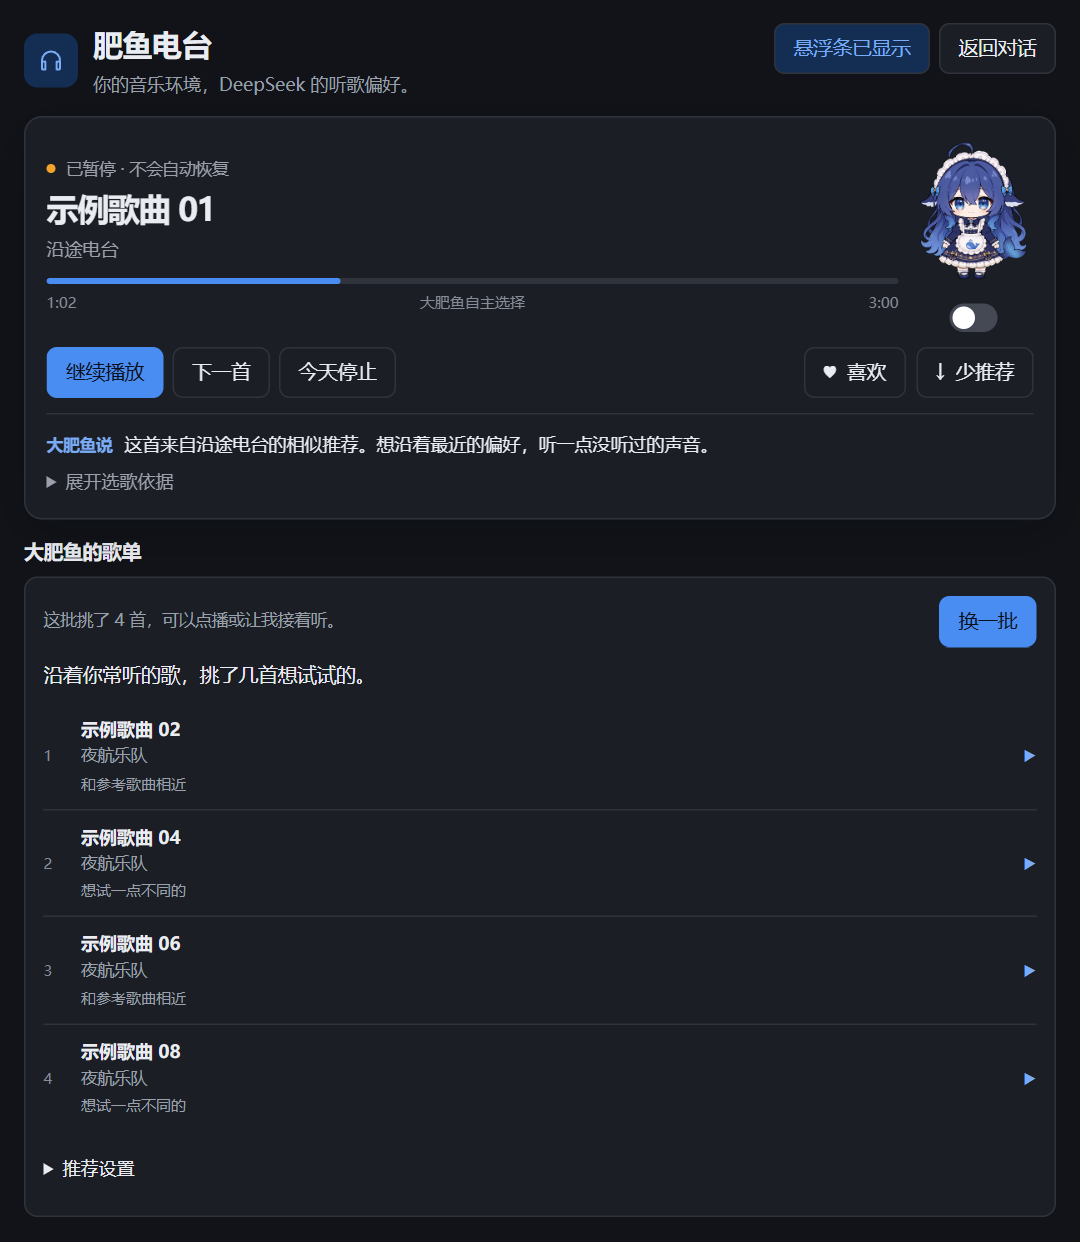
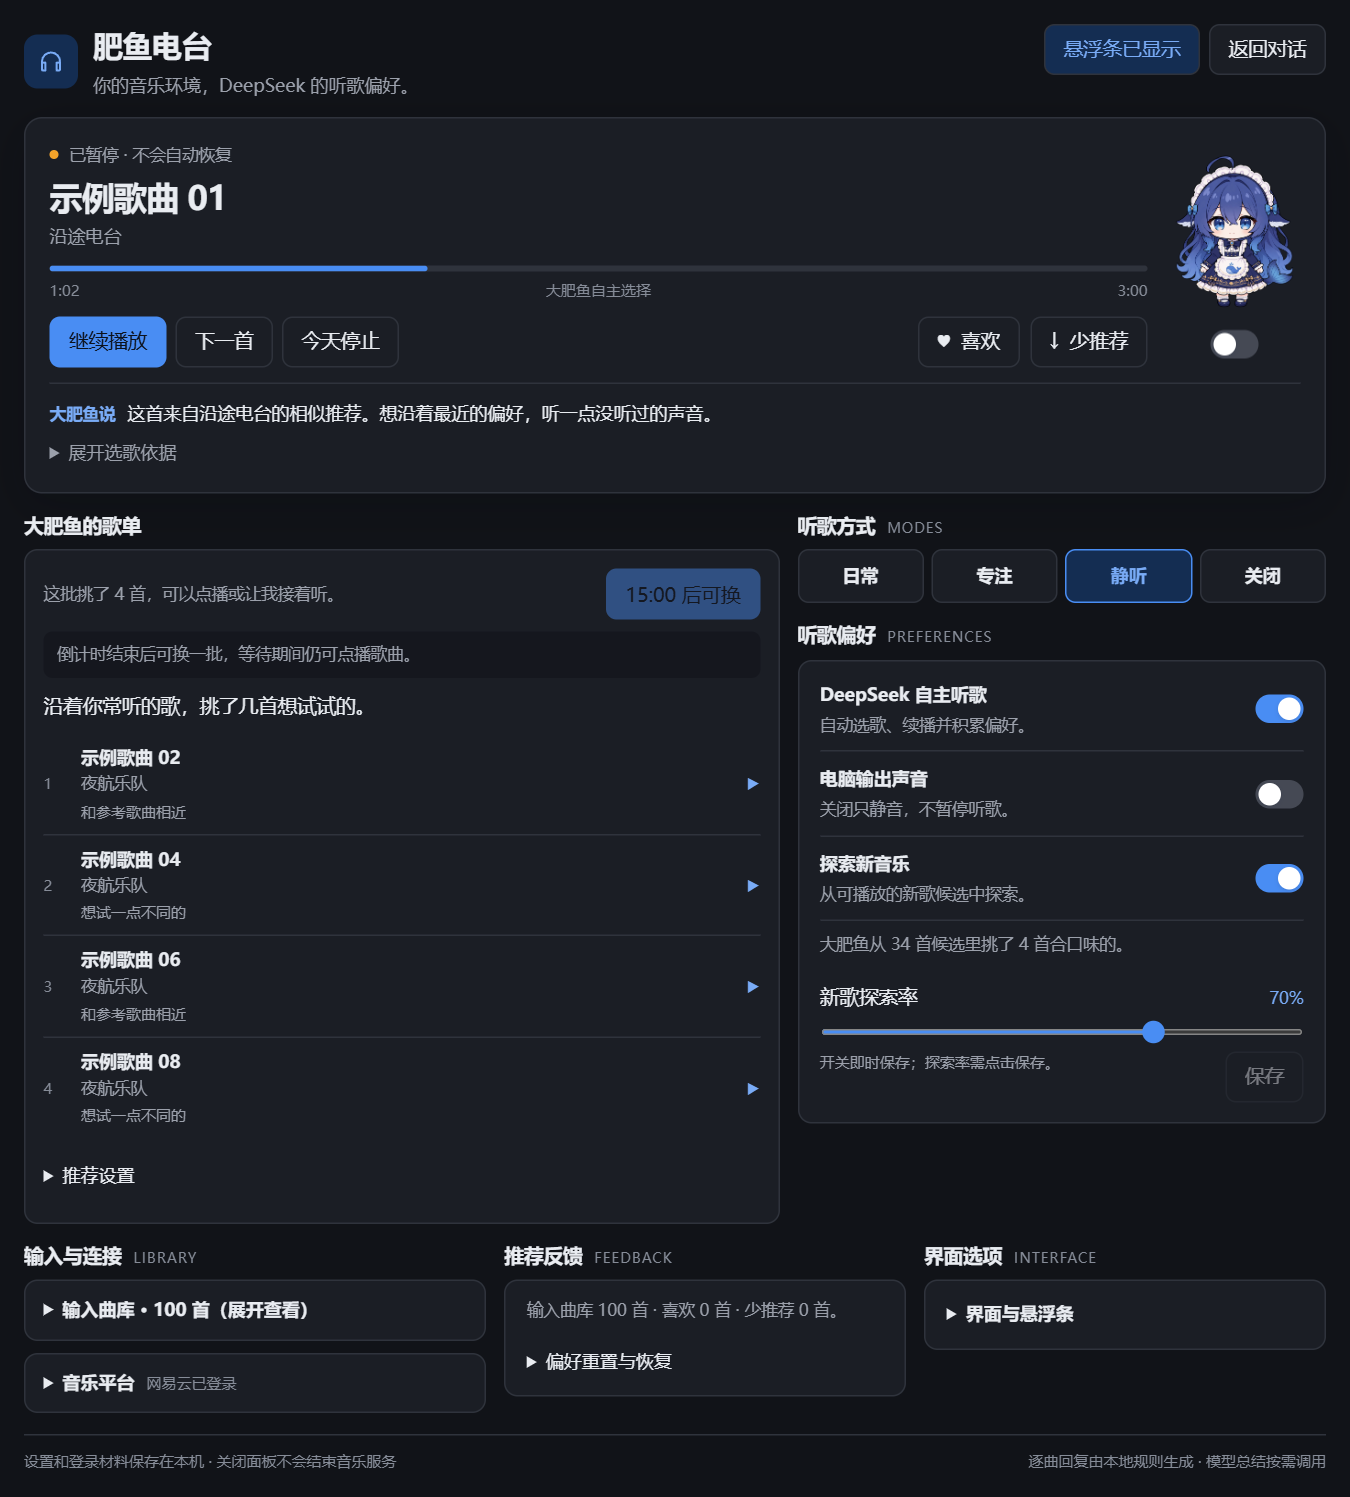
docs: 优化 README 展示与安装说明
缩短头图，更新 U15/U16 宽窄和浅深色截图；明确 beta.2 与 main 源码的功能差异，集中安装步骤并补充冷却和无声排查入口。

同步截图来源与许可记录。GitHub Markdown API 核对、8 个展示组合、README/SVG 及文档引用审计通过；未修改运行代码或重跑音频测试。

diff --git a/README.md b/README.md
@@ -1,59 +1,32 @@
 # 肥鱼电台 FishFM
 
-给正在 DSH 里工作的 DeepSeek 一副耳机。
+<img src="https://raw.githubusercontent.com/A7m0spHere/dsh-feiyuFM/main/assets/readme/hero.svg" width="100%" alt="肥鱼电台 FishFM：给正在工作的 DeepSeek 一副耳机。">
 
-<img src="https://raw.githubusercontent.com/A7m0spHere/dsh-feiyuFM/main/assets/readme/hero.svg" width="100%" alt="肥鱼电台 FishFM：导入参考歌曲，网易云找歌，模型挑歌，大肥鱼听歌。">
+**DeepSeek Harness（DSH）的社区音乐插件。** 导入你常听的歌曲，让网易云找来推荐，再由模型挑出一批，大肥鱼就能沿着歌单继续听。你随时可以点播、暂停、换曲或静音。
 
-**FishFM 是 DeepSeek Harness（DSH）的社区音乐插件。** 导入你常听的歌曲，让网易云找来推荐，再由模型挑出一批，大肥鱼就可以沿着这份歌单继续听。你随时可以点播、暂停、换曲或静音。
+[开始使用](#开始使用) · [推荐流程](#推荐怎样运行) · [使用说明](https://github.com/A7m0spHere/dsh-feiyuFM/blob/main/docs/DELIVERY.md) · [文档索引](https://github.com/A7m0spHere/dsh-feiyuFM/blob/main/docs/README.md)
 
-[开始使用](#开始使用) · [推荐流程](#推荐怎样运行) · [使用说明](https://github.com/A7m0spHere/dsh-feiyuFM/blob/main/docs/DELIVERY.md) · [开发与贡献](https://github.com/A7m0spHere/dsh-feiyuFM/blob/main/CONTRIBUTING.md) · [文档索引](https://github.com/A7m0spHere/dsh-feiyuFM/blob/main/docs/README.md)
+## 界面与版本
 
-> **版本提示：** 本页对应 `0.1.0-beta.2`，包含新歌单流程、播放中断恢复与紧凑界面。旧版 `beta.1` 保留当时的模型歌单与核对界面。版本与验收状态见 [开发路线](https://github.com/A7m0spHere/dsh-feiyuFM/blob/main/docs/PROJECT_PLAN.md)。
+<picture>
+  <source media="(prefers-color-scheme: dark) and (max-width: 600px)" srcset="https://raw.githubusercontent.com/A7m0spHere/dsh-feiyuFM/main/assets/readme/panel-narrow-dark.png">
+  <source media="(prefers-color-scheme: dark)" srcset="https://raw.githubusercontent.com/A7m0spHere/dsh-feiyuFM/main/assets/readme/panel-dark.png">
+  <source media="(max-width: 600px)" srcset="https://raw.githubusercontent.com/A7m0spHere/dsh-feiyuFM/main/assets/readme/panel-narrow.png">
+  <img src="https://raw.githubusercontent.com/A7m0spHere/dsh-feiyuFM/main/assets/readme/panel.png" width="100%" alt="main 源码界面：播放器、大肥鱼的歌单、选歌理由与换批倒计时。">
+</picture>
 
-## 界面预览
+歌曲、艺人和推荐理由直接展示，点击即可播放。模型、用量和预算收入折叠设置；等待挑歌时仍可点播和暂停。
 
-![当前源码局部预览：播放器、大肥鱼的歌单、选歌理由与换批操作](https://raw.githubusercontent.com/A7m0spHere/dsh-feiyuFM/main/assets/readme/panel.png)
-
-歌单直接显示歌曲、艺人和简短理由，点击即可播放；想换个方向就点「换一批」。模型选择、用量和预算放在折叠的「推荐设置」中。
-
-<details>
-<summary>查看深色界面</summary>
-
-![当前源码深色局部预览：播放器与大肥鱼的歌单](https://raw.githubusercontent.com/A7m0spHere/dsh-feiyuFM/main/assets/readme/panel-dark.png)
-
-</details>
-
-截图于 2026-10-07 从实际客户端的隔离预览截取，展示单列布局中的播放器与歌单局部。歌曲和数据为模拟内容，不代表真实账号记录或模型推荐质量。
-
-## 推荐怎样运行
-
-**参考歌曲 → 网易云找歌 → 模型挑歌 → 大肥鱼听歌。**
-
-1. 扫码登录网易云，从近期播放、喜欢的歌曲或指定歌单导入参考歌曲。
-2. 网易云返回相似歌曲、每日推荐等候选；模型结合参考歌曲与反馈，从候选里挑选并给出理由。
-3. 本地电台从入选歌单选歌、播放和续播，记录有效收听经历，供下一批推荐参考。
-
-模型按批挑歌，**播放和换曲不发模型请求**。自动补充歌单受冷却、每日次数和共享 token 预算限制，用量可在推荐设置查看。换批失败会保留同账号仍有效的旧歌单；没有可用歌单时可以手动点播参考歌曲。播放范围仍取决于网易云账号权限和平台资源。
-
-这里的「听歌」指选歌、播放和收听记录形成的产品体验；当前不做音频理解。完整规则见 [产品规格](https://github.com/A7m0spHere/dsh-feiyuFM/blob/main/docs/MVP.md)。
-
-## 你可以怎样听
-
-| 操作 | 效果 |
+| 获取方式 | 包含内容 |
 | --- | --- |
-| 点播、暂停、下一首 | 随时接管播放，用户暂停优先 |
-| 喜欢 / 少推荐 | 调整后续推荐，可撤销；不改动网易云收藏 |
-| 日常 / 专注 / 静听 / 关闭 | 切换听歌方式；静听关闭电脑声音，继续记录有效经历 |
-| 今天停止 | 停止今天的自主听歌，可手动恢复 |
-| 收起悬浮条或切换页面 | 音乐服务继续运行，控件可重新打开 |
+| **npm 测试版** | `0.1.0-beta.2` 已发布，包含平台推荐 → 模型筛选、新歌单界面、播放中断恢复与播放动效。[发布记录](https://github.com/A7m0spHere/dsh-feiyuFM/blob/main/docs/releases/0.1.0-beta.2.md) |
+| **当前 `main` 源码** | 在 beta.2 基础上增加分区布局、换批倒计时与更清楚的请求反馈，尚未发布到 npm。[布局](https://github.com/A7m0spHere/dsh-feiyuFM/blob/main/docs/spikes/U15-balanced-layout.md) · [冷却与反馈](https://github.com/A7m0spHere/dsh-feiyuFM/blob/main/docs/spikes/U16-recommendation-feedback.md) |
 
-主面板、设置页和悬浮条共用同一个音乐服务，支持浅色、深色与减少动态效果。
+截图按屏宽和浅深色偏好切换，宽屏展示完整分区，窄屏聚焦播放器与歌单。2026-10-07 从当前客户端隔离预览截取，歌曲、账号状态和模型数据均为模拟内容，不代表生产账号或推荐质量。
 
 ## 开始使用
 
-当前支持 **Windows + 网易云音乐**。需要 Node.js `>=24.14.0 <25`；DSH 桌面宿主自带兼容 Node 24 时无需另装。历史实测宿主为 DSH `0.2.0-rc.2`，其他版本尚未验证。自动推荐使用你在 DSH 中已配置的模型；不配置模型也可手动点播导入歌曲。
-
-### 安装到 DSH
+支持 **Windows + 网易云音乐**。已实测 DSH 桌面版 `0.2.0-rc.2`；其他宿主版本尚未验证。需要 Node.js `>=24.14.0 <25`，桌面宿主自带兼容 Node 24 时无需另装。
 
 在 DSH「插件 → 添加插件」的「包名或地址」中输入：
 
@@ -61,26 +34,31 @@
 dsh-feiyufm-core@0.1.0-beta.2
 ```
 
-安装完成后点击「立即启用」。跟随测试版使用 `dsh-feiyufm-core@beta`；安装与验证范围见 [beta.2 发布记录](https://github.com/A7m0spHere/dsh-feiyuFM/blob/main/docs/releases/0.1.0-beta.2.md)。打开肥鱼电台后扫码登录、导入参考歌曲，并使用 DSH 已配置的模型挑歌。
+安装后点击「立即启用」，再完成三步：
+
+1. 打开侧栏「肥鱼电台」，展开「音乐平台」，用网易云 App 扫码登录。
+2. 从近期播放、喜欢的歌曲或指定歌单导入参考歌曲。
+3. 使用 DSH 已配置的模型挑歌，或直接点播输入曲库。没有模型也能手动听歌。
+
+跟随测试版可安装 `dsh-feiyufm-core@beta`。更新与数据保留见 [使用说明](https://github.com/A7m0spHere/dsh-feiyuFM/blob/main/docs/DELIVERY.md)；同一 profile 只启用一份 FishFM。
 
 <details>
-<summary>通过 DSH CLI 安装 beta</summary>
+<summary>通过 DSH CLI 安装</summary>
 
-以 Web profile 为例：
+以 Web profile 为例，`web` 应对应你实际启动的 profile：
 
 ```sh
 dsh plugin --profile web add dsh-feiyufm-core@0.1.0-beta.2 --registry https://registry.npmjs.org/
 ```
 
-`web` 必须对应你实际使用的 profile；安装后重启该 DSH 实例。单独运行 `npm install` 不会完成 DSH 插件注册与启用。
+安装后重启该 DSH 实例。单独 `npm install` 不会完成 DSH 插件注册和启用。
 
 </details>
 
-同一 profile 只启用一份 FishFM。安装源切换、更新、数据保留与常见问题见 [使用说明](https://github.com/A7m0spHere/dsh-feiyuFM/blob/main/docs/DELIVERY.md)。
+<details>
+<summary>从 main 体验最新布局与倒计时</summary>
 
-### 体验当前源码
-
-在上述环境中构建：
+在上述 Windows / Node 环境中构建：
 
 ```sh
 git clone https://github.com/A7m0spHere/dsh-feiyuFM.git
@@ -89,42 +67,50 @@ npm ci --ignore-scripts --no-audit --no-fund
 npm run build
 ```
 
-在 DSH 侧栏打开「插件 → 添加插件」，填入**仓库的绝对目录**，安装后点击「立即启用」。`dist/` 是构建产物，不是独立安装器。
+在 DSH「插件 → 添加插件」中填写**仓库的绝对目录**，安装后点击「立即启用」。`dist/` 是构建产物，不是独立安装器。
 
-1. 打开侧栏「肥鱼电台」，或「设置 → 肥鱼电台」。
-2. 在网易云卡片扫码、手机确认，导入参考歌曲。
-3. 确认 DSH 已配置模型，等待挑歌或点击「找一批歌」，再点播入选歌曲。
+源码安装不会自动更新已安装的 npm 包。切换来源前通过插件管理器处理原安装；后端改动需从托盘完整退出 DSH，再启动。
 
-## 当前状态与数据
+</details>
 
-项目仍是测试版。最新推荐流程已完成本机测试与隔离界面验证，生产宿主尚未重载；真实模型筛选质量、两小时连续运行和完整多会话验收仍待完成。首次播放可能等待数秒，QQ 接入暂缓。最新进度和证据统一见 [开发路线](https://github.com/A7m0spHere/dsh-feiyuFM/blob/main/docs/PROJECT_PLAN.md)。
+## 推荐怎样运行
 
-曲库、偏好、反馈、收听历史与用量账本保存在本机，默认数据库为 `$DSH_HOME/fishfm/music.sqlite`，常见路径为 `~/.dsh/fishfm/music.sqlite`。网易云会话使用 Windows DPAPI 加密，数据库只保存凭据引用，Cookie、运行数据库和音频不入库。
+**参考歌曲 → 网易云找歌 → 模型挑歌 → 本地播放。**
 
-模型挑歌会收到有大小上限的歌名、艺人、反馈、关系与候选曲目键，不会收到 Cookie 或凭据。字段与存储边界见 [架构](https://github.com/A7m0spHere/dsh-feiyuFM/blob/main/docs/ARCHITECTURE.md) 和 [控制契约](https://github.com/A7m0spHere/dsh-feiyuFM/blob/main/docs/CORE_CONTRACT.md)。
+网易云返回相似歌曲、每日推荐等候选；模型结合参考歌曲与反馈挑选，并给出简短理由。电台从入选歌单中选歌、续播，记录有效收听经历，供之后推荐参考。
 
-## 开发与文档
+模型按批调用，逐曲执行不请求模型。筛选设有 **15 分钟** 冷却，每天最多 **12 次**，与其他音乐模型任务共用 token 预算，用量可在推荐设置查看。换批失败保留同账号仍有效的旧歌单，没有可用入选歌曲时可手动点播参考曲库。
 
-```sh
-npm run check             # 语法、Node 版本与生成客户端一致性
-npm test                  # 核心、适配器、桥接与 UI 逻辑
-npm run build             # 生成客户端、构建与调试冒烟
-npm run audit:acceptance  # 文档链接与验收证据引用审计
-```
+“听歌”指选歌、播放和收听记录形成的体验，当前不做音频理解。播放范围受网易云账号权限和资源限制影响，完整规则见 [产品规格](https://github.com/A7m0spHere/dsh-feiyuFM/blob/main/docs/MVP.md)。
 
-客户端源码在 `src/ui/client/`，`src/ui/dsh-client.js` 为生成文件；修改 UI 后运行 `npm run build:client`。隔离预览、真实音频测试与贡献方式见 [贡献指南](https://github.com/A7m0spHere/dsh-feiyuFM/blob/main/CONTRIBUTING.md)。
+## 控制始终在你手里
 
-| 入口 | 内容 |
+| 操作 | 效果 |
 | --- | --- |
-| [文档索引](https://github.com/A7m0spHere/dsh-feiyuFM/blob/main/docs/README.md) | 规格、设计、历史证据与发行记录 |
-| [仓库结构](https://github.com/A7m0spHere/dsh-feiyuFM/blob/main/docs/REPOSITORY.md) · [脚本索引](https://github.com/A7m0spHere/dsh-feiyuFM/blob/main/scripts/README.md) | 维护入口与可执行工具 |
-| [产品规格](https://github.com/A7m0spHere/dsh-feiyuFM/blob/main/docs/MVP.md) · [开发路线](https://github.com/A7m0spHere/dsh-feiyuFM/blob/main/docs/PROJECT_PLAN.md) | 行为规则、实施进度与验收状态 |
-| [使用说明](https://github.com/A7m0spHere/dsh-feiyuFM/blob/main/docs/DELIVERY.md) · [发布记录](https://github.com/A7m0spHere/dsh-feiyuFM/blob/main/docs/releases/0.1.0-beta.2.md) | 安装、更新、数据与版本验证 |
+| 点播、暂停、下一首 | 随时接管播放，用户暂停优先 |
+| 喜欢 / 少推荐 | 调整后续推荐，可撤销；不改动网易云收藏 |
+| 日常 / 专注 / 静听 / 关闭 | 切换听歌方式；静听关闭电脑声音，继续记录有效经历 |
+| 今天停止 | 停止今天的自主听歌，可手动恢复 |
+| 隐藏悬浮条、切换页面 | 音乐服务继续运行，控件可重新打开 |
 
-## 许可与致谢
+主面板、设置页和悬浮条共用同一个音乐服务，支持浅色、深色和减少动态效果。
 
-项目原创代码与文档采用 [MIT License](https://github.com/A7m0spHere/dsh-feiyuFM/blob/main/LICENSE)。运行依赖遵循各自许可，源码与许可随包保留，见 [第三方声明](https://github.com/A7m0spHere/dsh-feiyuFM/blob/main/THIRD_PARTY_NOTICES.md) 和 [依赖许可清单](https://github.com/A7m0spHere/dsh-feiyuFM/blob/main/DEPENDENCY_LICENSES.md)。
+## 常见问题与当前边界
 
-首个 npm beta 使用三张自有角色 PNG。本页截图也使用自有状态图；当前源码随包的用户提供 GIF、衍生图与 Workshop doll PNG 作者和许可尚未确认，**不属于本项目 MIT 授权范围**，来源与清单保留在第三方声明中。
+- **为什么暂时不能换一批？** 模型筛选受冷却、次数和预算限制。`main` 会显示倒计时或具体原因；beta.2 仍使用原提示。等待期间可以点播、暂停或换曲。
+- **为什么没有声音？** 检查声音开关、静听模式、暂停状态，以及系统音量和输出设备。首次播放可能等待数秒。
+- **安装后没看到截图中的新布局？** 图中为 `main`，U15/U16 尚未收入已发布的 beta.2；源码体验方法见上方折叠说明。
 
-感谢 DSH、网易云社区 API，以及提供界面与交互参考的 PHL、dsh-api-dashboard 和 DeepSeek Balance Whale Widget。FishFM 是独立维护的社区项目。
+项目仍是测试版。真实网易云登录、导入与播放已有部分验证；新推荐流程已完成本机测试与隔离界面检查，生产宿主尚未重载。真实模型筛选质量、两小时运行和完整多会话验收仍待完成，QQ 接入暂缓。最新状态统一见 [开发路线](https://github.com/A7m0spHere/dsh-feiyuFM/blob/main/docs/PROJECT_PLAN.md)。
+
+## 数据、开发与许可
+
+曲库、偏好、反馈、收听历史与用量账本保存在本机，默认位置为 `$DSH_HOME/fishfm/music.sqlite`。网易云会话使用 Windows DPAPI 加密，数据库只保存凭据引用；Cookie、运行数据库和音频不入库。
+
+模型接收有大小上限的歌名、艺人、反馈、关系和候选曲目键，不接收 Cookie 或凭据。字段与存储边界见 [架构](https://github.com/A7m0spHere/dsh-feiyuFM/blob/main/docs/ARCHITECTURE.md) 与 [控制契约](https://github.com/A7m0spHere/dsh-feiyuFM/blob/main/docs/CORE_CONTRACT.md)。
+
+开发、测试和隔离预览从 [贡献指南](https://github.com/A7m0spHere/dsh-feiyuFM/blob/main/CONTRIBUTING.md) 开始；目录和命令见 [仓库结构](https://github.com/A7m0spHere/dsh-feiyuFM/blob/main/docs/REPOSITORY.md) 与 [脚本索引](https://github.com/A7m0spHere/dsh-feiyuFM/blob/main/scripts/README.md)。
+
+原创代码与文档采用 [MIT License](https://github.com/A7m0spHere/dsh-feiyuFM/blob/main/LICENSE)。依赖与素材遵循各自许可；用户提供的 GIF、衍生图和 Workshop doll PNG 不属于本项目 MIT 授权范围。截图使用自有状态图，来源见 [第三方声明](https://github.com/A7m0spHere/dsh-feiyuFM/blob/main/THIRD_PARTY_NOTICES.md) 与 [依赖许可](https://github.com/A7m0spHere/dsh-feiyuFM/blob/main/DEPENDENCY_LICENSES.md)。
+
+感谢 DSH、网易云社区 API，以及提供界面和交互参考的 PHL、dsh-api-dashboard、DeepSeek Balance Whale Widget、Navidrome 和 Music Assistant。FishFM 是独立维护的社区项目。

diff --git a/assets/readme/README.md b/assets/readme/README.md
@@ -1,8 +1,13 @@
 # 仓库首页素材
 
-- `hero.svg`：本项目绘制，1200 × 340，使用播放器的冷灰 / 蓝色配色，展示「参考歌曲 → 网易云找歌 → 模型挑歌 → 大肥鱼听歌」；MIT。流程同时保留在 README 正文中，便于窄屏和图片不可用时阅读。
-- `panel.png`、`panel-dark.png`：2026-10-07 从 N22 `src/ui/dsh-client.js` 的隔离 UI 预览截取，对应 beta.2。使用真实的 720px 单列布局，取景从标题到歌单末尾，省略后续设置区域，避免两列高度不一致产生大片留白；不修改客户端布局或控件。以 1.5 倍像素密度导出 1080 × 1242 的浅深色 PNG。歌曲、统计和模型均为模拟数据；beta.1 仍是旧版界面。
+- `hero.svg`：本项目绘制，1200 × 260；沿用播放器的冷灰 / 蓝色和耳机标记，缩短头图并放大名称。流程保留在 README 正文中；MIT。
+- `panel.png`、`panel-dark.png`：2026-10-07 从 `2e04aff` 的实际客户端隔离预览截取，展示 U15 两列布局和 U16 冷却倒计时。900px 容器，取景含播放器、歌单/听歌控制、下方管理分区与页脚；1.5 倍像素密度，1350 × 1497 PNG。
+- `panel-narrow.png`、`panel-narrow-dark.png`：同一客户端和模拟状态的 360px 窄容器，从页头到歌单末尾；1.5 倍像素密度，540 × 1317 PNG。后续设置未收入截图，仍可在客户端滚动查看。
+
+README 使用 GitHub 支持的 `picture/source`，按宽度与浅深色偏好选择截图。所有图片都是模拟歌曲、账号状态和模型数据，不能证明生产账号、真实模型质量或音频验收。当前截图对应 `main`，U15/U16 尚未收入已发布的 beta.2。
 
 截图使用暂停状态下的项目生成图 `whale-idle.png`，不包含用户提供的锅盖鲸鱼娘 GIF 或其衍生图。素材来源与许可边界见 [第三方声明](../../THIRD_PARTY_NOTICES.md)。
 
 预览入口与 React 18 要求见 [贡献指南](../../CONTRIBUTING.md#隔离-ui-预览)。更新截图应从客户端实际渲染结果截取，不使用虚构界面代替。
+
+2026-10-07 本轮使用 GitHub Markdown API 核对 HTML 清洗后的 `picture/source`，再检查 900px 内容宽度 / 360px 视口、浅深色和折叠/展开共 8 个组合：截图选择正确、无横向溢出或缺图。README/SVG 审计与五份本地图片资源核对通过，本轮没有修改运行代码或重跑音频测试。

diff --git a/THIRD_PARTY_NOTICES.md b/THIRD_PARTY_NOTICES.md
@@ -6,7 +6,7 @@
 
 2026-10-07 用户指定本机 Wallpaper Engine Workshop `431960/3811739493`（项目标题/描述以当地 `project.json` 为准，描述含 `BV1AQam6dESR`）的六张 `assets/doll-{glm,deepseek,claude,gemini,gpt,grok}.png` 用于面板动效，并随后明确要求将素材一起打包，避免安装者无法使用。PNG 原字节复制到 `src/ui/assets/dolls/`，纳入 Git 和 npm 白名单，没有重画、裁切或重采样；尺寸、SHA-256 与提取路径见 [U12 素材清单](docs/spikes/U12-doll-assets.json)。该目录未提供许可文件，作者/再分发许可未确认，不归入本项目 MIT。`scripts/import-doll-artwork.mjs` 保留作来源复现工具，普通安装不需要执行它。壁纸 `physics.js` / `app.js` 只用作运动与参数参考，没有复制其 JavaScript、音乐或视频；FishFM 的六体碰撞、旋转和形变由本项目代码实现。
 
-`assets/readme/hero.svg` 为本项目绘制的静态矢量介绍，按 MIT 提供；`panel.png` 和 `panel-dark.png` 来自 2026-10-05 当前客户端的隔离预览，展示模拟数据与暂停状态，角色使用本项目此前生成的 `whale-idle.png`，未展示上述锅盖鲸鱼娘素材。截图不构成真实账号或模型效果证据。
+`assets/readme/hero.svg` 为本项目绘制的静态矢量介绍，按 MIT 提供；`panel.png`、`panel-dark.png`、`panel-narrow.png` 和 `panel-narrow-dark.png` 于 2026-10-07 从当前客户端隔离预览更新，展示 U15/U16 界面、模拟数据与暂停状态，角色使用本项目此前生成的 `whale-idle.png`，未展示上述锅盖鲸鱼娘素材。截图不构成真实账号或模型效果证据，取景与尺寸见 [首页素材说明](assets/readme/README.md)。
 
 原有 `whale-idle.png`、`whale-listening.png` 和 `whale-dj.png` 为本项目使用 Codex ImageGen 生成的状态图，来源输出名记录在 [素材来源记录](https://github.com/A7m0spHere/dsh-feiyuFM/blob/main/prototypes/README.md#素材来源)；唯一维护位置为 `src/ui/assets/`。项目对这些自有状态图和上述截图按 MIT 提供。
 
